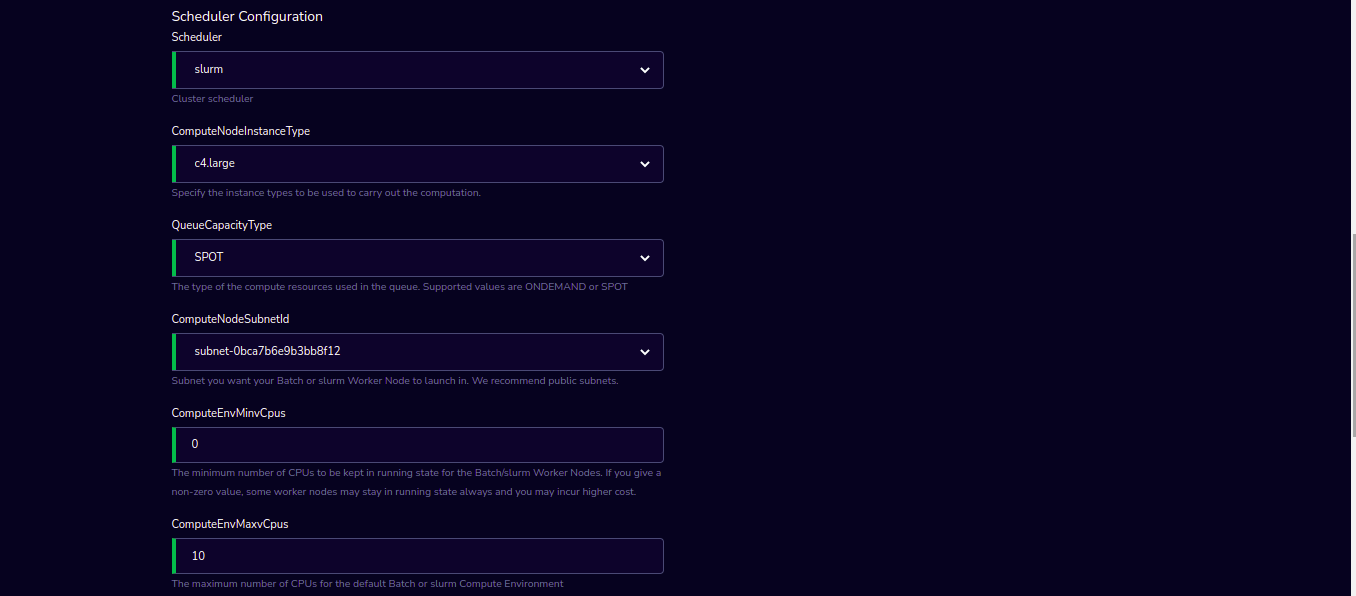
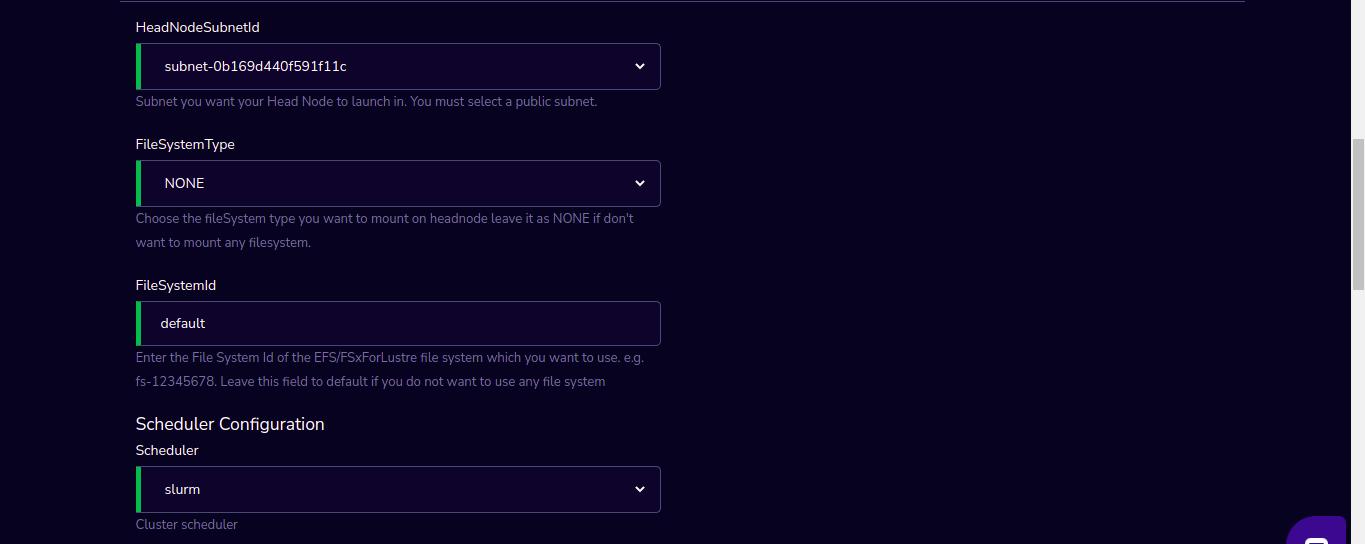
Pcluster enhancement-1.15.0

diff --git a/source/PCluster.rst b/source/PCluster.rst
@@ -32,8 +32,10 @@ Parameters
      - Select The VPC to create security groups and deploy AWS Batch or slurm to from drop-down list
    * - HeadNodeSubnetId
      - Select the Subnet you want your Head Node to launch in from the drop-down list. You must select a public subnet.
+   * - FileSystemType
+     - Choose the fileSystem type EFS/FSxForLustre (provisioned earlier) which you want to mount on headnode leave it as NONE if don't want to mount any filesystem.
    * - FileSystemId
-     - Enter the File System Id of the FSx for Lustre file system which you want to use. e.g. fs-12345678. Leave this field to default if you do not want to use FSx for Lustre.   
+     - Enter the File System Id of the EFS/FSxForLustre file system which you want to use. e.g. fs-12345678. Leave this field to default if you do not want to use any file system
    * - Scheduler
      - Select a Cluster scheduler from the drop-down list 
    * - ComputeNodeInstanceType 
@@ -65,6 +67,10 @@ Parameters
 .. image:: images/Product_PCluster_LaunchForm3.png
 
 .. image:: images/Product_PCluster_LaunchForm4.png
+
+.. image:: images/Product_PCluster_LaunchForm5.png
+
+.. image:: images/Product_PCluster_LaunchForm6.png
 
 Steps to launch
 ----------------
